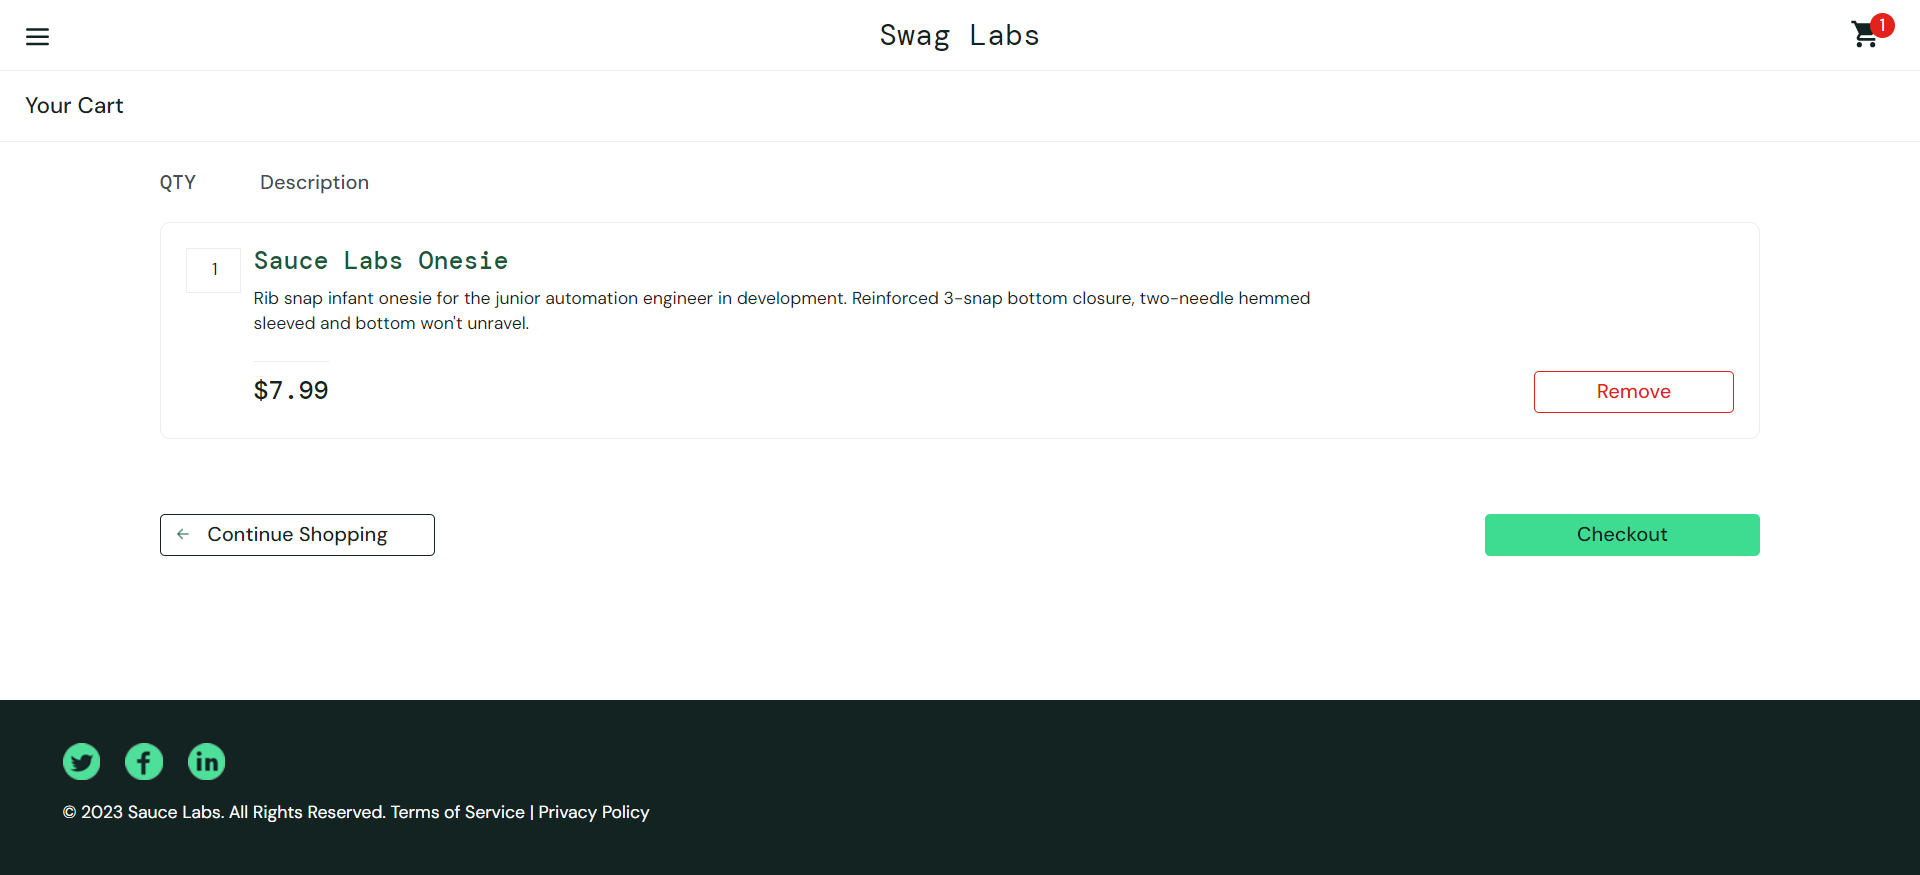
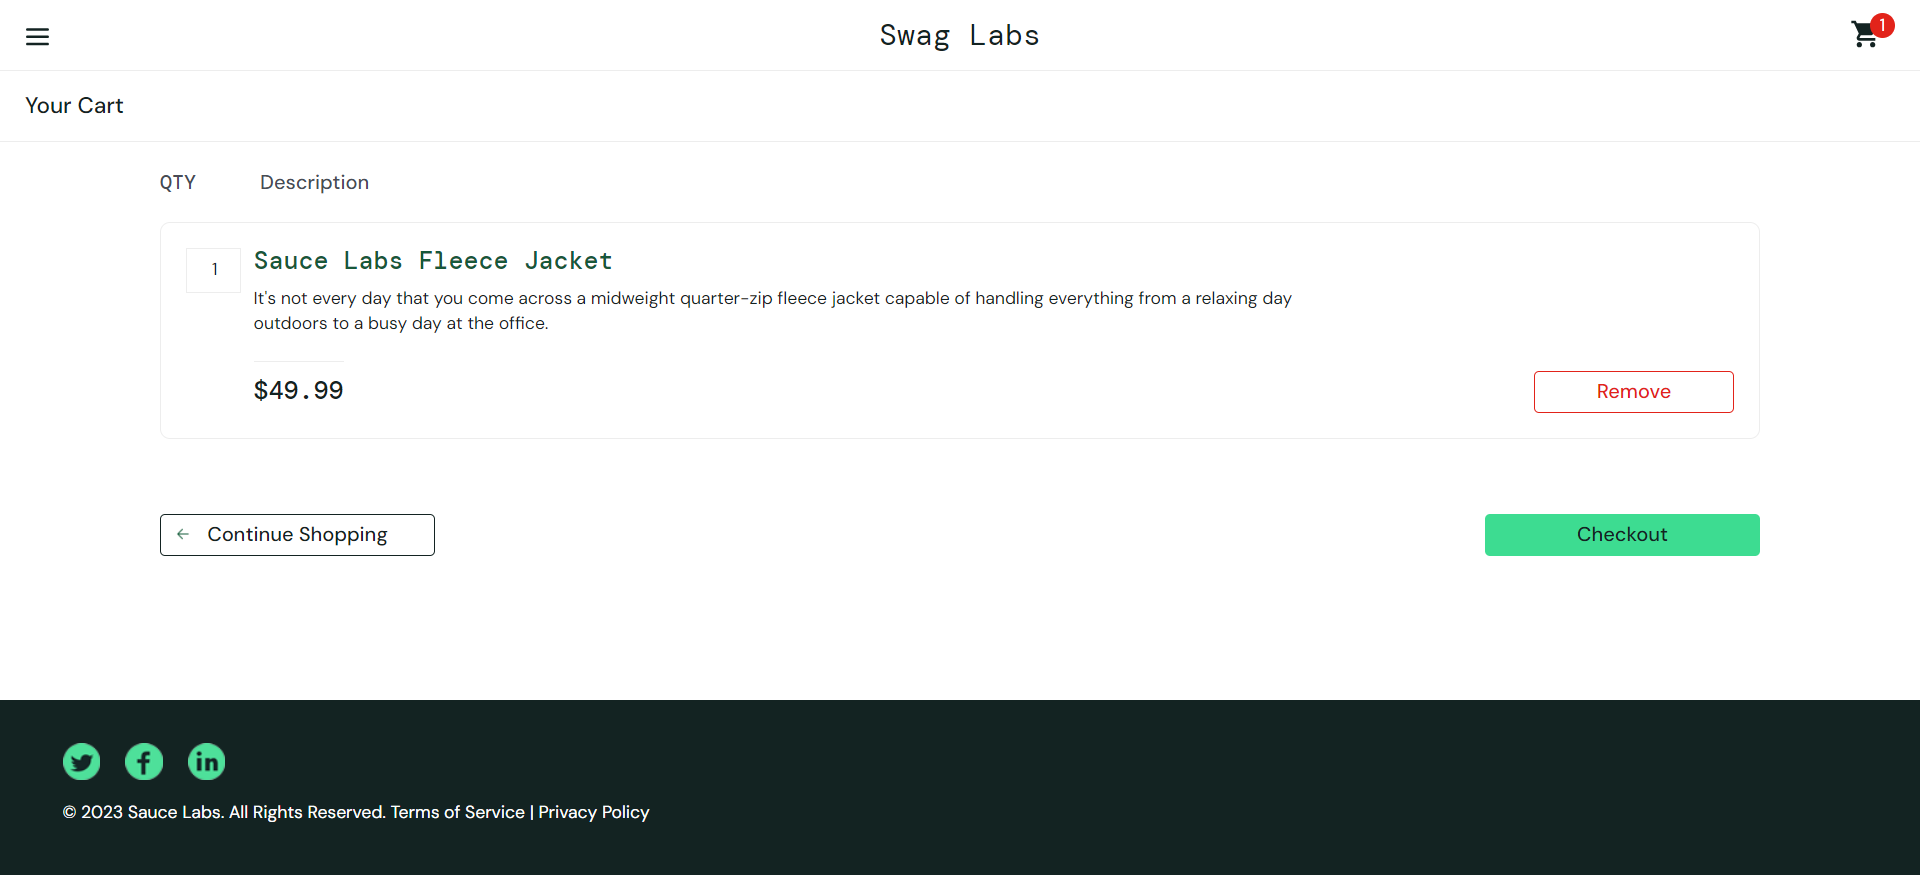
Updated Flow

Changed region(s): [[0.125, 0.3086, 0.6875, 0.4011], [0.2188, 0.2777, 0.3125, 0.3086], [0.125, 0.432, 0.1875, 0.4629]]

diff --git a/Results/log.html b/Results/log.html
@@ -1806,25 +1806,25 @@ function stopPropagation(event) {
 window.output = {};
 </script>
 <script type="text/javascript">
-window.output["suite"] = [1,2,3,0,[],[1,0,11863],[],[[4,0,0,[],[1,309,11554],[[0,5,6,0,7,8,0,0,[1,309,0],[]],[0,9,10,0,0,11,0,0,[1,309,2208],[[0,12,6,0,13,11,0,0,[1,309,1942],[[309,2,14]]],[0,15,6,0,16,0,0,0,[1,2251,117],[]],[0,17,6,0,18,19,0,0,[1,2368,0],[[2368,2,20]]],[0,21,6,0,22,23,0,0,[1,2368,149],[[2517,2,24]]]]],[0,25,10,0,0,26,0,0,[1,2517,306],[[0,27,6,0,28,29,0,0,[1,2517,34],[]],[0,30,6,0,31,32,0,0,[1,2551,131],[[2551,2,33]]],[0,27,6,0,28,34,0,0,[1,2682,34],[]],[0,35,6,0,36,37,0,0,[1,2716,107],[[2716,2,38],[2755,2,39],[2823,2,40]]]]],[0,41,10,0,0,0,0,0,[1,2823,115],[[0,42,6,0,43,44,0,0,[1,2823,115],[[2823,2,45]]]]],[0,46,10,0,0,0,0,0,[1,2938,372],[[0,17,6,0,18,47,0,0,[1,2938,12],[[2950,2,20]]],[0,21,6,0,22,48,0,0,[1,2950,360],[[3310,2,49]]]]],[0,50,51,0,0,0,0,0,[1,3310,194],[[0,17,6,0,18,52,0,0,[1,3310,8],[[3318,2,20]]],[0,21,6,0,22,48,0,0,[1,3318,186],[[3504,2,49]]]]],[0,53,51,0,0,54,0,0,[1,3504,152],[[0,55,6,0,56,57,0,0,[1,3504,81],[[3504,2,58]]],[0,55,6,0,56,59,0,0,[1,3585,71],[[3585,2,60]]]]],[0,61,51,0,0,0,0,0,[1,3656,82],[[0,62,6,0,63,64,65,0,[1,3656,25],[[3681,2,66]]],[5,67,0,0,0,0,0,0,[1,3681,57],[[0,55,6,0,56,64,0,0,[1,3681,51],[[3681,2,68]]]]]]],[0,69,51,0,0,0,0,0,[1,3738,275],[[0,21,6,0,22,48,0,0,[1,3738,213],[[3951,2,49]]],[0,55,6,0,56,70,0,0,[1,3951,62],[[3951,2,71]]]]],[0,72,73,0,0,0,0,0,[1,4013,203],[[0,17,6,0,18,52,0,0,[1,4013,8],[[4021,2,20]]],[0,21,6,0,22,74,0,0,[1,4021,195],[[4216,2,75]]]]],[0,76,73,0,0,0,0,0,[1,4216,21],[[0,62,6,0,63,77,78,0,[1,4216,21],[[4237,2,79]]],[0,80,81,0,82,83,0,0,[1,4237,0],[]]]],[0,84,73,0,0,0,0,0,[1,4245,216],[[0,21,6,0,22,74,0,0,[1,4245,152],[[4397,2,75]]],[0,55,6,0,56,85,0,0,[1,4397,64],[[4405,2,86]]]]],[0,87,88,0,0,0,0,0,[1,4461,156],[[0,17,6,0,18,52,0,0,[1,4461,5],[[4466,2,20]]],[0,21,6,0,22,89,0,0,[1,4466,151],[[4617,2,90]]]]],[0,91,88,0,0,92,0,0,[1,4617,149],[[0,27,6,0,28,93,0,0,[1,4617,31],[]],[0,30,6,0,31,94,0,0,[1,4648,118],[[4648,2,95]]]]],[0,96,88,0,0,97,0,0,[1,4766,146],[[0,27,6,0,28,98,0,0,[1,4766,33],[]],[0,30,6,0,31,99,0,0,[1,4799,113],[[4799,2,100]]]]],[0,101,88,0,0,102,0,0,[1,4912,146],[[0,27,6,0,28,103,0,0,[1,4912,35],[]],[0,30,6,0,31,104,0,0,[1,4947,111],[[4947,2,105]]]]],[0,106,88,0,0,0,0,0,[1,5058,206],[[0,21,6,0,22,89,0,0,[1,5058,128],[[5186,2,90]]],[0,55,6,0,56,107,0,0,[1,5186,78],[[5186,2,108]]]]],[0,109,88,0,0,0,0,0,[1,5264,215],[[0,21,6,0,22,89,0,0,[1,5264,152],[[5416,2,90]]],[0,55,6,0,56,110,0,0,[1,5416,63],[[5416,2,111]]]]],[0,112,88,0,0,0,0,0,[1,5481,155],[[0,113,6,0,114,115,0,0,[1,5482,13],[[5495,2,116]]],[0,21,6,0,22,89,0,0,[1,5495,141],[[5636,2,90]]]]],[0,117,6,0,118,0,0,0,[1,5636,6227],[]]]]],[],[1,1,0,0]];
+window.output["suite"] = [1,2,3,0,[],[1,0,11863],[],[[4,0,0,[],[1,281,11582],[[0,5,6,0,7,8,0,0,[1,281,0],[]],[0,9,10,0,0,11,0,0,[1,281,2247],[[0,12,6,0,13,11,0,0,[1,281,1887],[[281,2,14]]],[0,15,6,0,16,0,0,0,[1,2168,127],[]],[0,17,6,0,18,19,0,0,[1,2295,32],[[2327,2,20]]],[0,21,6,0,22,23,0,0,[1,2327,40],[[2367,2,24]]],[0,25,6,0,26,27,0,0,[1,2367,161],[[2528,2,28]]]]],[0,29,10,0,0,30,0,0,[1,2528,310],[[0,31,6,0,32,33,0,0,[1,2528,47],[]],[0,34,6,0,35,36,0,0,[1,2575,129],[[2575,2,37]]],[0,31,6,0,32,38,0,0,[1,2704,34],[]],[0,39,6,0,40,41,0,0,[1,2738,100],[[2739,2,42],[2764,2,43],[2838,2,44]]]]],[0,45,10,0,0,0,0,0,[1,2838,132],[[0,46,6,0,47,48,0,0,[1,2838,20],[[2858,2,49]]],[0,50,6,0,51,48,0,0,[1,2858,112],[[2859,2,52]]]]],[0,53,10,0,0,0,0,0,[1,2971,347],[[0,17,6,0,18,54,0,0,[1,2971,7],[[2977,2,20]]],[0,25,6,0,26,55,0,0,[1,2978,340],[[3318,2,56]]]]],[0,57,58,0,0,0,0,0,[1,3319,237],[[0,17,6,0,18,59,0,0,[1,3320,7],[[3327,2,20]]],[0,21,6,0,22,60,0,0,[1,3328,15],[[3342,2,61]]],[0,25,6,0,26,55,0,0,[1,3343,213],[[3556,2,56]]]]],[0,62,58,0,0,63,0,0,[1,3556,156],[[0,64,6,0,65,66,0,0,[1,3556,32],[[3588,2,67]]],[0,68,6,0,69,66,0,0,[1,3588,62],[[3588,2,70]]],[0,68,6,0,69,71,0,0,[1,3650,62],[[3650,2,72]]]]],[0,73,58,0,0,0,0,0,[1,3714,75],[[0,74,6,0,75,76,77,0,[1,3714,28],[[3742,2,78]]],[5,79,0,0,0,0,0,0,[1,3742,47],[[0,68,6,0,69,76,0,0,[1,3743,46],[[3743,2,80]]]]]]],[0,81,58,0,0,0,0,0,[1,3789,283],[[0,25,6,0,26,55,0,0,[1,3789,202],[[3991,2,56]]],[0,64,6,0,65,82,0,0,[1,3991,15],[[4006,2,83]]],[0,68,6,0,69,82,0,0,[1,4006,66],[[4006,2,84]]]]],[0,85,86,0,0,0,0,0,[1,4072,156],[[0,17,6,0,18,59,0,0,[1,4072,8],[[4080,2,20]]],[0,25,6,0,26,87,0,0,[1,4080,148],[[4228,2,88]]]]],[0,89,86,0,0,0,0,0,[1,4228,46],[[0,64,6,0,65,90,0,0,[1,4228,15],[[4243,2,91]]],[0,74,6,0,75,90,92,0,[1,4243,30],[[4273,2,93]]],[0,94,95,0,96,97,0,0,[1,4273,1],[]]]],[0,98,86,0,0,0,0,0,[1,4274,40],[[0,21,6,0,22,99,0,0,[1,4275,16],[[4291,2,100]]],[0,74,6,0,75,101,92,0,[1,4291,23],[[4314,2,93]]],[0,94,95,0,96,97,0,0,[1,4314,0],[]]]],[0,102,86,0,0,0,0,0,[1,4314,195],[[0,25,6,0,26,87,0,0,[1,4314,130],[[4444,2,88]]],[0,68,6,0,69,103,0,0,[1,4444,64],[[4444,2,104]]]]],[0,105,106,0,0,0,0,0,[1,4509,168],[[0,17,6,0,18,107,0,0,[1,4509,8],[[4516,2,20]]],[0,21,6,0,22,108,0,0,[1,4517,16],[[4533,2,109]]],[0,25,6,0,26,110,0,0,[1,4533,144],[[4677,2,111]]]]],[0,112,106,0,0,113,0,0,[1,4677,121],[[0,31,6,0,32,114,0,0,[1,4677,31],[]],[0,34,6,0,35,115,0,0,[1,4708,90],[[4708,2,116]]]]],[0,117,106,0,0,118,0,0,[1,4799,120],[[0,31,6,0,32,119,0,0,[1,4799,30],[]],[0,34,6,0,35,120,0,0,[1,4829,90],[[4829,2,121]]]]],[0,122,106,0,0,123,0,0,[1,4919,119],[[0,31,6,0,32,124,0,0,[1,4919,29],[]],[0,34,6,0,35,125,0,0,[1,4948,90],[[4948,2,126]]]]],[0,127,106,0,0,0,0,0,[1,5038,197],[[0,25,6,0,26,110,0,0,[1,5038,123],[[5161,2,111]]],[0,68,6,0,69,128,0,0,[1,5161,74],[[5161,2,129]]]]],[0,130,106,0,0,0,0,0,[1,5235,20],[[0,21,6,0,22,131,0,0,[1,5235,20],[[5255,2,132]]]]],[0,133,106,0,0,0,0,0,[1,5256,16],[[0,21,6,0,22,134,0,0,[1,5256,16],[[5272,2,135]]]]],[0,136,106,0,0,0,0,0,[1,5273,6],[[0,21,6,0,22,137,0,0,[1,5273,6],[[5279,2,138]]]]],[0,139,106,0,0,0,0,0,[1,5279,214],[[0,25,6,0,26,110,0,0,[1,5279,153],[[5432,2,111]]],[0,68,6,0,69,140,0,0,[1,5432,61],[[5433,2,141]]]]],[0,142,106,0,0,0,0,0,[1,5493,150],[[0,21,6,0,22,143,0,0,[1,5493,20],[[5513,2,144]]],[0,25,6,0,26,110,0,0,[1,5514,129],[[5643,2,111]]]]],[0,145,6,0,146,0,0,0,[1,5643,6220],[]]]]],[],[1,1,0,0]];
 </script>
 <script type="text/javascript">
 window.output["strings"] = [];
 </script>
 <script type="text/javascript">
-window.output["strings"] = window.output["strings"].concat(["*","*OrderCheapestProduct","*C:\\Users\\PAWAN\\Advarisk_SauceDemo_Assignment\\TestCases\\OrderCheapestProduct.robot","*../TestCases/OrderCheapestProduct.robot","*Order Cheapest Product","*Set Selenium Implicit Wait","*SeleniumLibrary","*<p>Sets the implicit wait value used by Selenium.\x3c/p>","*5","*Open My Browser","*LoginPage","*${URL}, ${Browser}","*Open Browser","*<p>Opens a new browser instance to the optional <code>url\x3c/code>.\x3c/p>","*Opening browser 'Chrome' to base url '<a href=\"https://www.saucedemo.com/\">https://www.saucedemo.com/\x3c/a>'.","*Maximize Browser Window","*<p>Maximizes current browser window.\x3c/p>","*Title Should Be","*<p>Verifies that the current page title equals <code>title\x3c/code>.\x3c/p>","*${LoginPageTitle}","*Page title is 'Swag Labs'.","*Capture Page Screenshot","*<p>Takes a screenshot of the current page and embeds it into a log file.\x3c/p>","*Screenshots/LoginPage.png","*\x3c/td>\x3c/tr><tr><td colspan=\"3\"><a href=\"Screenshots/LoginPage.png\"><img src=\"Screenshots/LoginPage.png\" width=\"800px\">\x3c/a>","*Enter UserName And Password","*${UserName}, ${Password}","*Element Should Be Enabled","*<p>Verifies that element identified by <code>locator\x3c/code> is enabled.\x3c/p>","*${UserName_TextBox_ID}","*Input Text","*<p>Types the given <code>text\x3c/code> into the text field identified by <code>locator\x3c/code>.\x3c/p>","*${UserName_TextBox_ID}, ${UserName}","*Typing text 'standard_user' into text field 'id : user-name'.","*${PassWord_TextBox_ID}","*Input Password","*<p>Types the given password into the text field identified by <code>locator\x3c/code>.\x3c/p>","*${PassWord_TextBox_ID}, ${Password}","*Typing password into text field 'id : password'.","*Temporally setting log level to: NONE","*Log level changed from NONE to INFO.","*Click Sign In","*Click Button","*<p>Clicks the button identified by <code>locator\x3c/code>.\x3c/p>","*${Login_Button_ID}","*Clicking button 'id : login-button'.","*Verify Successful Login","*${SuccesfulLoginTitle}","*Screenshots/HomePage.png","*\x3c/td>\x3c/tr><tr><td colspan=\"3\"><a href=\"Screenshots/HomePage.png\"><img src=\"Screenshots/HomePage.png\" width=\"800px\">\x3c/a>","*Verify Title Of Products Page","*ProductsPage","*${ProductsPageTitle}","*Filter the Products list","*${FilterOption}","*Click Element","*<p>Click the element identified by <code>locator\x3c/code>.\x3c/p>","*${Filter_DropDown_Xpath}","*Clicking element '//select[@class=\"product_sort_container\"]'.","*//option[text()='${FilterOption}']","*Clicking element '//option[text()='Price (low to high)']'.","*Select First Product From The List","*Get Text","*<p>Returns the text value of the element identified by <code>locator\x3c/code>.\x3c/p>","*${AddToCart_FirstProduct_Xpath}","*${AddToCart_OR_Remove}","*${AddToCart_OR_Remove} = Add to cart","*&quot;${AddToCart_OR_Remove}&quot; == &quot;Add to cart&quot;","*Clicking element '(//button[@class=\"btn btn_primary btn_small btn_inventory\"])[1]'.","*Navigate To Shopping Cart","*${ShoppingCart_Icon_Xpath}","*Clicking element '//a[@class=\"shopping_cart_link\"]'.","*Verify Title Of Cart Page","*CartPage","*Screenshots/CartPage.png","*\x3c/td>\x3c/tr><tr><td colspan=\"3\"><a href=\"Screenshots/CartPage.png\"><img src=\"Screenshots/CartPage.png\" width=\"800px\">\x3c/a>","*Check Quantity Of Products","*${Quantity_Xpath}","*${GetCount}","*${GetCount} = 1","*Should Be Equal","*BuiltIn","*<p>Fails if the given objects are unequal.\x3c/p>","*${GetCount}, 1","*Click On Checkout","*${Checkout_Button_ID}","*Clicking element 'id : checkout'.","*Verify Title Of Checkout Page","*CheckOutPage","*Screenshots/CheckoutPage.png","*\x3c/td>\x3c/tr><tr><td colspan=\"3\"><a href=\"Screenshots/CheckoutPage.png\"><img src=\"Screenshots/CheckoutPage.png\" width=\"800px\">\x3c/a>","*Provide FirstName","*${FirstName}","*${FirstName_InputBox_ID}","*${FirstName_InputBox_ID}, ${Name}","*Typing text 'Pawan' into text field 'id : first-name'.","*Provide LastName","*${LastName}","*${LastName_InputBox_ID}","*${LastName_InputBox_ID}, ${LastName}","*Typing text 'Nahar' into text field 'id : last-name'.","*Provide PostalCode","*${Postal}","*${Postal_InputBox_ID}","*${Postal_InputBox_ID}, ${Postal}","*Typing text '445001' into text field 'id : postal-code'.","*Click On Continue","*${Continue_Button_ID}","*Clicking element 'id : continue'.","*Click On Finish","*${Finish_Button_ID}","*Clicking element 'id : finish'.","*Verify Successful Error Message","*Page Should Contain","*<p>Verifies that current page contains <code>text\x3c/code>.\x3c/p>","*Thank you for your order!","*Current page contains text 'Thank you for your order!'.","*Close All Browsers","*<p>Closes all open browsers and resets the browser cache.\x3c/p>"]);
+window.output["strings"] = window.output["strings"].concat(["*","*OrderMostExpensiveProduct","*C:\\Advarisk_SauceDemo_Assignment\\TestCases\\OrderMostExpensiveProduct.robot","*../TestCases/OrderMostExpensiveProduct.robot","*Order Cheapest Product","*Set Selenium Implicit Wait","*SeleniumLibrary","*<p>Sets the implicit wait value used by Selenium.\x3c/p>","*5","*Open My Browser","*LoginPage","*${URL}, ${Browser}","*Open Browser","*<p>Opens a new browser instance to the optional <code>url\x3c/code>.\x3c/p>","*Opening browser 'Chrome' to base url '<a href=\"https://www.saucedemo.com/\">https://www.saucedemo.com/\x3c/a>'.","*Maximize Browser Window","*<p>Maximizes current browser window.\x3c/p>","*Title Should Be","*<p>Verifies that the current page title equals <code>title\x3c/code>.\x3c/p>","*${LoginPageTitle}","*Page title is 'Swag Labs'.","*Page Should Contain","*<p>Verifies that current page contains <code>text\x3c/code>.\x3c/p>","*${LoginPageHeader}","*Current page contains text 'Swag Labs'.","*Capture Page Screenshot","*<p>Takes a screenshot of the current page and embeds it into a log file.\x3c/p>","*Screenshots/LoginPage.png","*\x3c/td>\x3c/tr><tr><td colspan=\"3\"><a href=\"Screenshots/LoginPage.png\"><img src=\"Screenshots/LoginPage.png\" width=\"800px\">\x3c/a>","*Enter UserName And Password","*${UserName}, ${Password}","*Element Should Be Enabled","*<p>Verifies that element identified by <code>locator\x3c/code> is enabled.\x3c/p>","*${UserName_TextBox_ID}","*Input Text","*<p>Types the given <code>text\x3c/code> into the text field identified by <code>locator\x3c/code>.\x3c/p>","*${UserName_TextBox_ID}, ${UserName}","*Typing text 'standard_user' into text field 'id : user-name'.","*${PassWord_TextBox_ID}","*Input Password","*<p>Types the given password into the text field identified by <code>locator\x3c/code>.\x3c/p>","*${PassWord_TextBox_ID}, ${Password}","*Typing password into text field 'id : password'.","*Temporally setting log level to: NONE","*Log level changed from NONE to INFO.","*Click Sign In","*Page Should Contain Button","*<p>Verifies button <code>locator\x3c/code> is found from current page.\x3c/p>","*${Login_Button_ID}","*Current page contains input 'id : login-button'.","*Click Button","*<p>Clicks the button identified by <code>locator\x3c/code>.\x3c/p>","*Clicking button 'id : login-button'.","*Verify Successful Login","*${SuccesfulLoginTitle}","*Screenshots/HomePage.png","*\x3c/td>\x3c/tr><tr><td colspan=\"3\"><a href=\"Screenshots/HomePage.png\"><img src=\"Screenshots/HomePage.png\" width=\"800px\">\x3c/a>","*Verify Title Of Products Page","*ProductsPage","*${ProductsPageTitle}","*${ProductsPageHeaders}","*Current page contains text 'Products'.","*Filter the Products list","*${FilterOption}","*Element Should Be Visible","*<p>Verifies that the element identified by <code>locator\x3c/code> is visible.\x3c/p>","*${Filter_DropDown_Xpath}","*Element '//select[@class=\"product_sort_container\"]' is displayed.","*Click Element","*<p>Click the element identified by <code>locator\x3c/code>.\x3c/p>","*Clicking element '//select[@class=\"product_sort_container\"]'.","*//option[text()='${FilterOption}']","*Clicking element '//option[text()='Price (high to low)']'.","*Select First Product From The List","*Get Text","*<p>Returns the text value of the element identified by <code>locator\x3c/code>.\x3c/p>","*${AddToCart_FirstProduct_Xpath}","*${AddToCart_OR_Remove}","*${AddToCart_OR_Remove} = Add to cart","*&quot;${AddToCart_OR_Remove}&quot; == &quot;Add to cart&quot;","*Clicking element '(//button[@class=\"btn btn_primary btn_small btn_inventory\"])[1]'.","*Navigate To Shopping Cart","*${ShoppingCart_Icon_Xpath}","*Element '//a[@class=\"shopping_cart_link\"]' is displayed.","*Clicking element '//a[@class=\"shopping_cart_link\"]'.","*Verify Title Of Cart Page","*CartPage","*Screenshots/CartPage.png","*\x3c/td>\x3c/tr><tr><td colspan=\"3\"><a href=\"Screenshots/CartPage.png\"><img src=\"Screenshots/CartPage.png\" width=\"800px\">\x3c/a>","*Check Number of Products","*${Cart_Icon_Xpath}","*Element '//span[@class=\"shopping_cart_badge\"]' is displayed.","*${GetCount}","*${GetCount} = 1","*Should Be Equal","*BuiltIn","*<p>Fails if the given objects are unequal.\x3c/p>","*${GetCount}, 1","*Check Quantity Of Products","*${ProductNameContains}","*Current page contains text 'Sauce Labs'.","*${Quantity_Xpath}","*Click On Checkout","*${Checkout_Button_ID}","*Clicking element 'id : checkout'.","*Verify Title Of Checkout Page","*CheckOutPage","*${CheckOutPageTitle}","*${CheckOutInfoPageHeader}","*Current page contains text 'Checkout: Your Information'.","*Screenshots/CheckoutPage.png","*\x3c/td>\x3c/tr><tr><td colspan=\"3\"><a href=\"Screenshots/CheckoutPage.png\"><img src=\"Screenshots/CheckoutPage.png\" width=\"800px\">\x3c/a>","*Provide FirstName","*${FirstName}","*${FirstName_InputBox_ID}","*${FirstName_InputBox_ID}, ${Name}","*Typing text 'Pawan' into text field 'id : first-name'.","*Provide LastName","*${LastName}","*${LastName_InputBox_ID}","*${LastName_InputBox_ID}, ${LastName}","*Typing text 'Nahar' into text field 'id : last-name'.","*Provide PostalCode","*${Postal}","*${Postal_InputBox_ID}","*${Postal_InputBox_ID}, ${Postal}","*Typing text '445001' into text field 'id : postal-code'.","*Click On Continue","*${Continue_Button_ID}","*Clicking element 'id : continue'.","*Verify Payment Information Is Visible","*Payment Information","*Current page contains text 'Payment Information'.","*Verify Shipping Information Is Visible","*Shipping Information","*Current page contains text 'Shipping Information'.","*Verify Price Total Is Visible","*Price Total","*Current page contains text 'Price Total'.","*Click On Finish","*${Finish_Button_ID}","*Clicking element 'id : finish'.","*Verify Successful Error Message","*Thank you for your order!","*Current page contains text 'Thank you for your order!'.","*Close All Browsers","*<p>Closes all open browsers and resets the browser cache.\x3c/p>"]);
 </script>
 <script type="text/javascript">
-window.output["stats"] = [[{"elapsed":"00:00:12","fail":0,"label":"All Tests","pass":1,"skip":0}],[],[{"elapsed":"00:00:12","fail":0,"id":"s1","label":"OrderCheapestProduct","name":"OrderCheapestProduct","pass":1,"skip":0}]];
+window.output["stats"] = [[{"elapsed":"00:00:12","fail":0,"label":"All Tests","pass":1,"skip":0}],[],[{"elapsed":"00:00:12","fail":0,"id":"s1","label":"OrderMostExpensiveProduct","name":"OrderMostExpensiveProduct","pass":1,"skip":0}]];
 </script>
 <script type="text/javascript">
 window.output["errors"] = [];
 </script>
 <script type="text/javascript">
-window.output["baseMillis"] = 1689872893755;
+window.output["baseMillis"] = 1689880572259;
 </script>
 <script type="text/javascript">
-window.output["generated"] = 11879;
+window.output["generated"] = 11893;
 </script>
 <script type="text/javascript">
 window.output["expand_keywords"] = null;

diff --git a/Results/report.html b/Results/report.html
@@ -1629,22 +1629,22 @@ storage = function () {
 window.output = {};
 </script>
 <script type="text/javascript">
-window.output["suite"] = [1,2,3,0,[],[1,0,11863],[],[[4,0,0,[],[1,309,11554],[]]],[],[1,1,0,0]];
+window.output["suite"] = [1,2,3,0,[],[1,0,11863],[],[[4,0,0,[],[1,281,11582],[]]],[],[1,1,0,0]];
 </script>
 <script type="text/javascript">
 window.output["strings"] = [];
 </script>
 <script type="text/javascript">
-window.output["strings"] = window.output["strings"].concat(["*","*OrderCheapestProduct","*C:\\Users\\PAWAN\\Advarisk_SauceDemo_Assignment\\TestCases\\OrderCheapestProduct.robot","*../TestCases/OrderCheapestProduct.robot","*Order Cheapest Product"]);
+window.output["strings"] = window.output["strings"].concat(["*","*OrderMostExpensiveProduct","*C:\\Advarisk_SauceDemo_Assignment\\TestCases\\OrderMostExpensiveProduct.robot","*../TestCases/OrderMostExpensiveProduct.robot","*Order Cheapest Product"]);
 </script>
 <script type="text/javascript">
-window.output["stats"] = [[{"elapsed":"00:00:12","fail":0,"label":"All Tests","pass":1,"skip":0}],[],[{"elapsed":"00:00:12","fail":0,"id":"s1","label":"OrderCheapestProduct","name":"OrderCheapestProduct","pass":1,"skip":0}]];
+window.output["stats"] = [[{"elapsed":"00:00:12","fail":0,"label":"All Tests","pass":1,"skip":0}],[],[{"elapsed":"00:00:12","fail":0,"id":"s1","label":"OrderMostExpensiveProduct","name":"OrderMostExpensiveProduct","pass":1,"skip":0}]];
 </script>
 <script type="text/javascript">
-window.output["baseMillis"] = 1689872893755;
+window.output["baseMillis"] = 1689880572259;
 </script>
 <script type="text/javascript">
-window.output["generated"] = 11879;
+window.output["generated"] = 11893;
 </script>
 <script type="text/javascript">
 window.output["expand_keywords"] = null;

diff --git a/PageObjects/CartPage.py b/PageObjects/CartPage.py
@@ -1,2 +1,3 @@
 Quantity_Xpath = '//div[@class="cart_quantity"]'
 Checkout_Button_ID = 'id : checkout'
+Cart_Icon_Xpath = '//span[@class="shopping_cart_badge"]'
